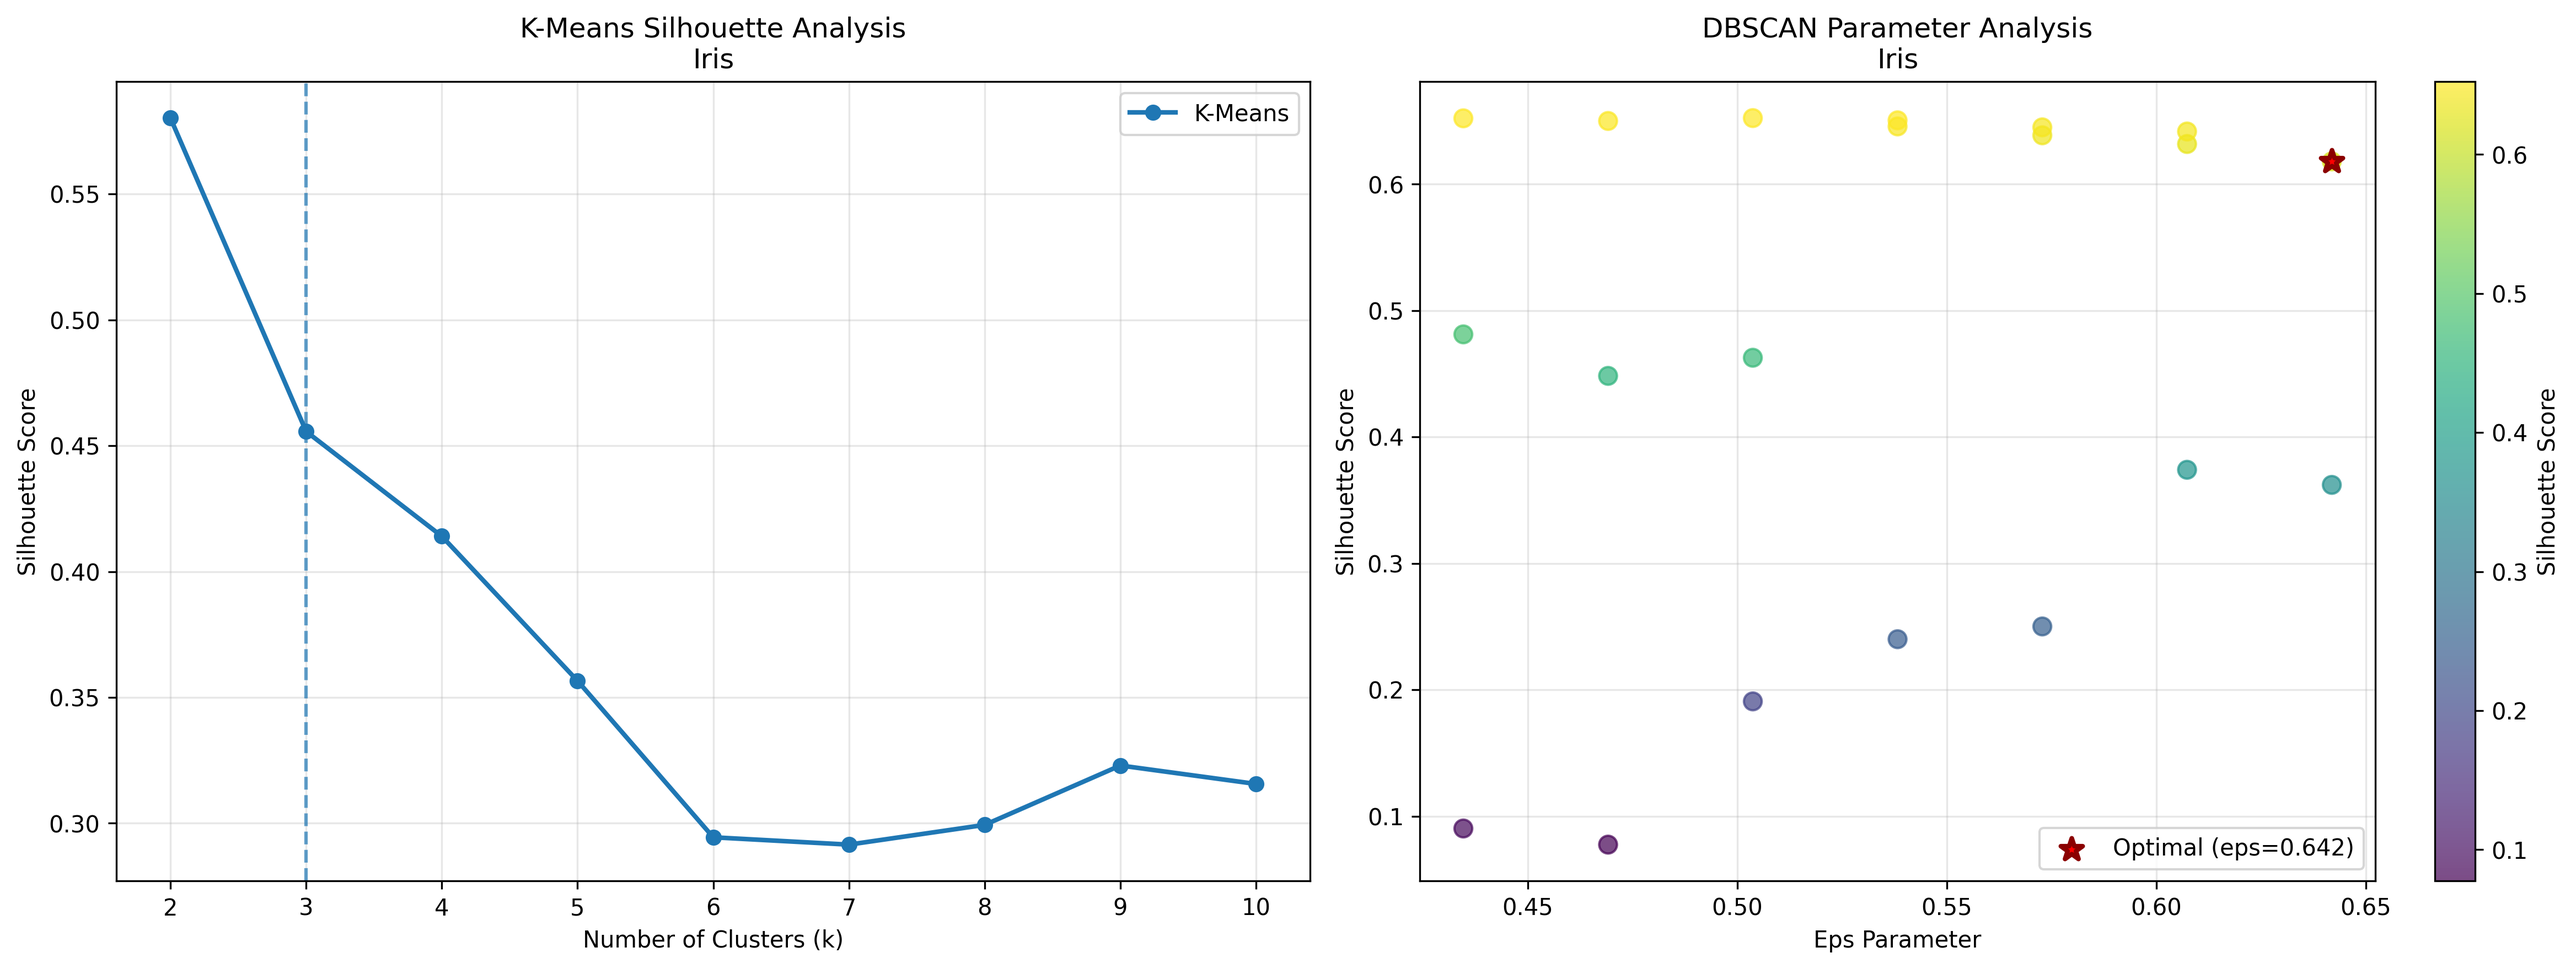
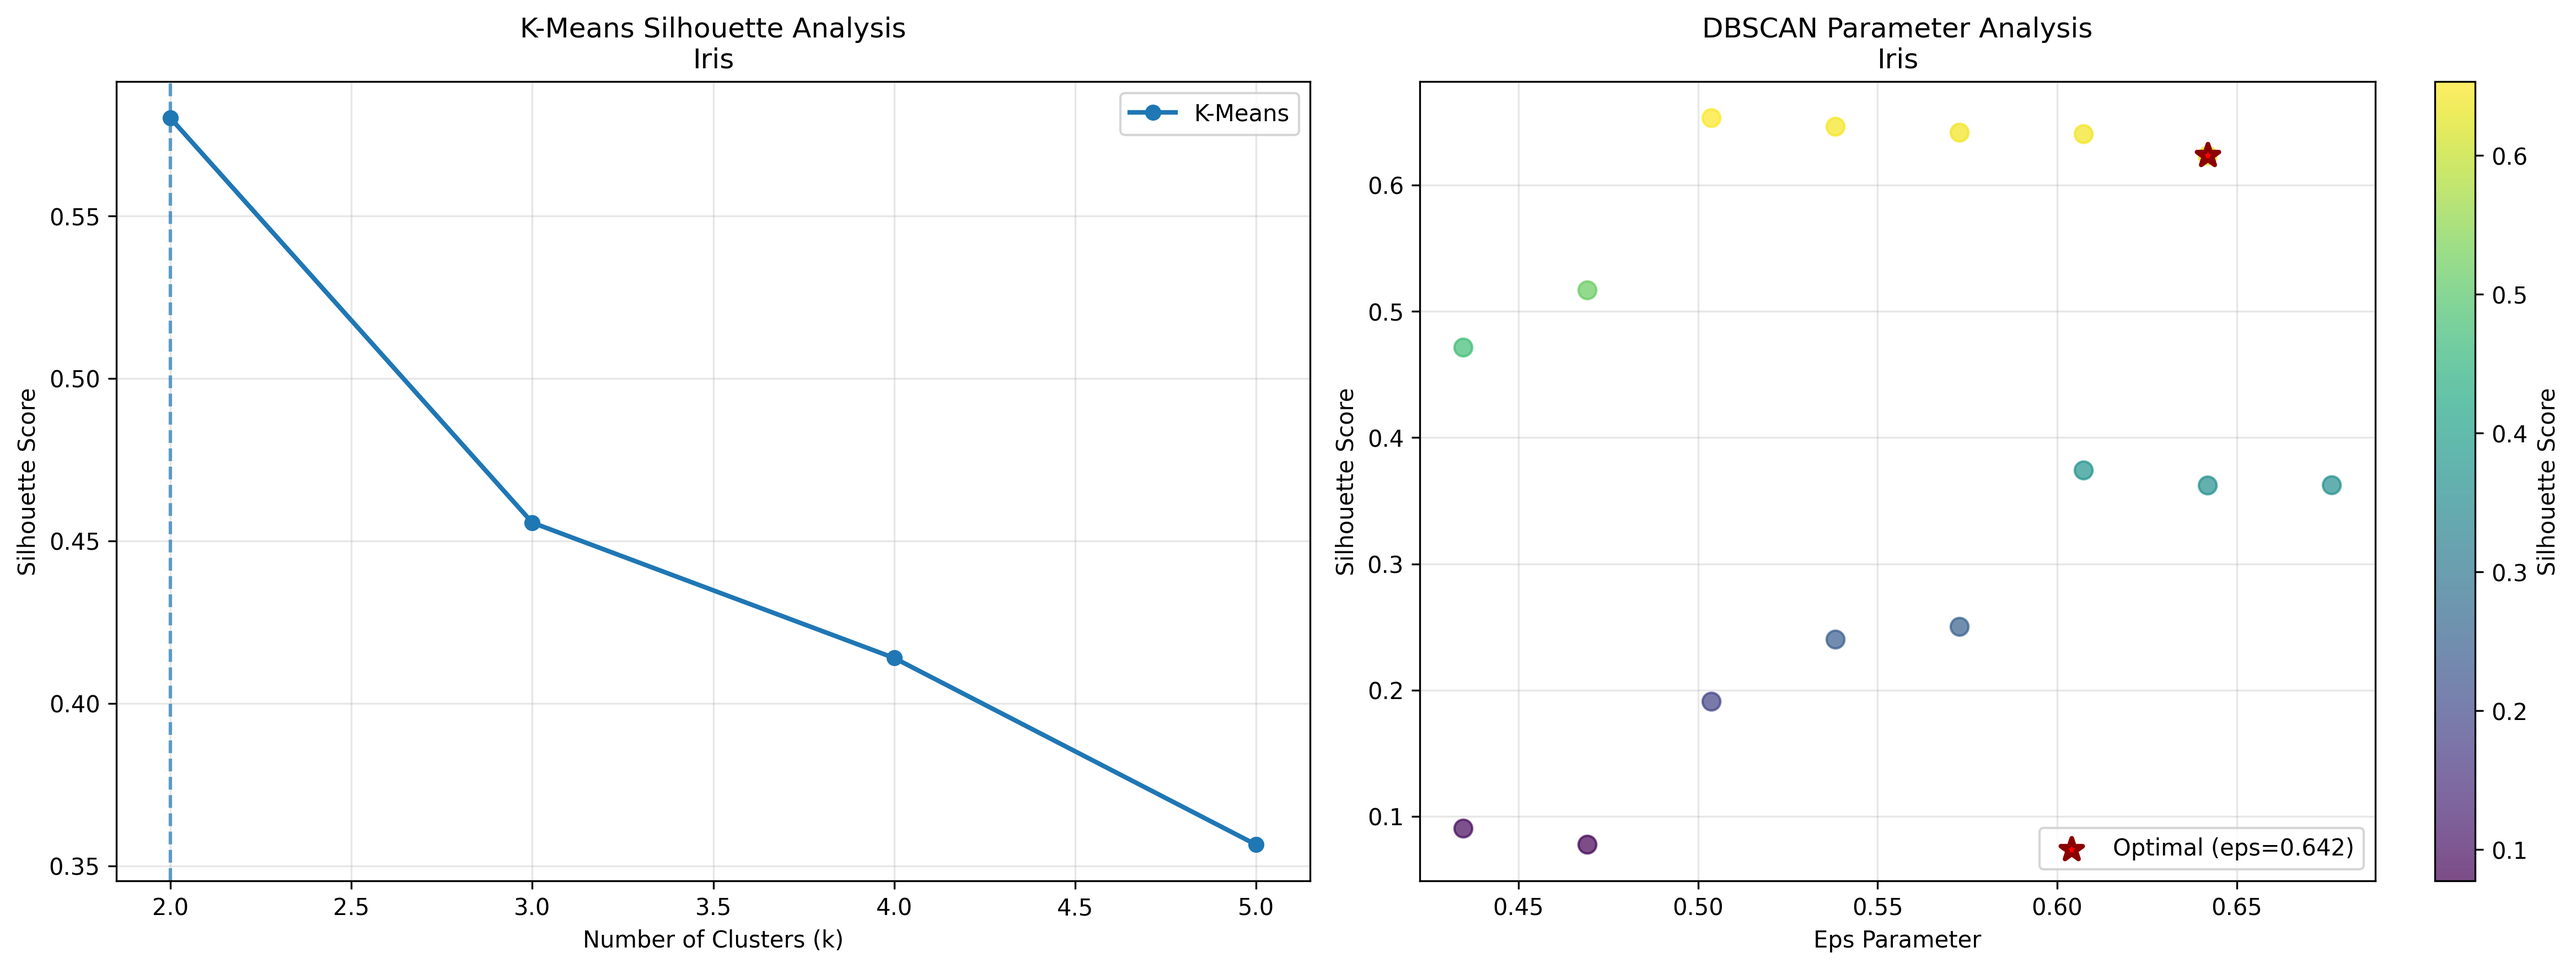
7 Datasets done

diff --git a/Clustering/comparison.py b/Clustering/comparison.py
@@ -60,7 +60,7 @@ def load_dataset_by_id(dataset_id):
         print(f"❌ Error loading dataset {dataset_id}: {str(e)}")
         return None, None, None, None
 
-def run_kmeans_analysis(X, dataset_name, max_k=10):
+def run_kmeans_analysis(X, dataset_name, max_k=5):
     print(f"Running K-means analysis for {dataset_name}...")
     
     # Find optimal k using elbow method
@@ -109,11 +109,11 @@ def run_dbscan_analysis(X, dataset_name):
     # Adjust max_combinations based on dataset size for efficiency
     n_samples = X.shape[0]
     if n_samples > 2000:
-        max_combinations = 10  # Reduce combinations for large datasets
+        max_combinations = 5  # Reduce combinations for large datasets
     elif n_samples > 1000:
-        max_combinations = 15
+        max_combinations = 10
     else:
-        max_combinations = 20
+        max_combinations = 15
     
     print(f"   Using {max_combinations} parameter combinations for {n_samples} samples")
     

diff --git a/Clustering/dbscan.py b/Clustering/dbscan.py
@@ -184,12 +184,12 @@ def calculate_silhouette_coefficient(X, labels):
     return np.mean(silhouette_scores)
 
 
-def find_optimal_parameters(X, eps_range=None, min_samples_range=None, max_combinations=50):
+def find_optimal_parameters(X, eps_range=None, min_samples_range=None, max_combinations=10):
     print("Finding optimal DBSCAN parameters...")
     
     if eps_range is None:
         print("  - Computing k-distance graph for eps range selection...")
-        k = min(10, max(4, int(np.log(len(X)))))
+        k = min(5, max(4, int(np.log(len(X)))))
         distances = []
         for point in X:
             dists = [np.linalg.norm(point - other) for other in X]

diff --git a/Clustering/k_means.py b/Clustering/k_means.py
@@ -169,7 +169,7 @@ class KMeansClusterer:
         return self.labels_
     
 
-def find_inertias(X, max_k=10):
+def find_inertias(X, max_k=5):
     print(f"Finding optimal number of clusters (k=1 to {max_k})...")
     
     inertias = []
